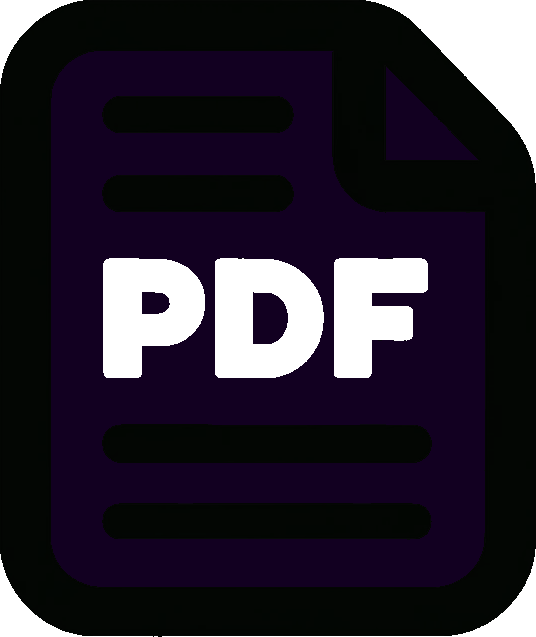
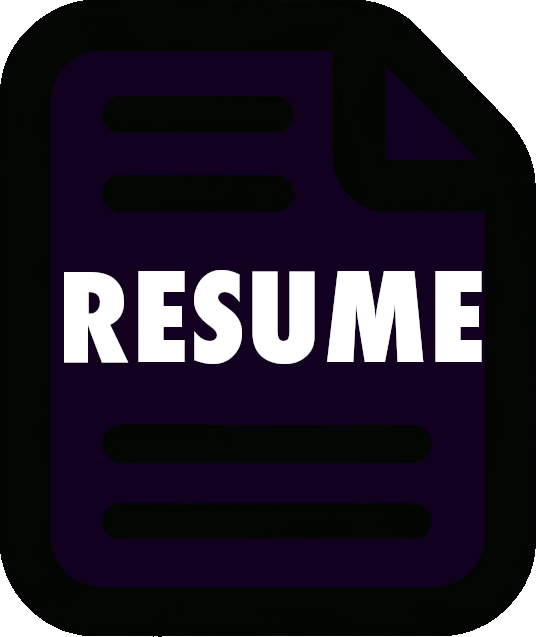
removed labels

Changed region(s): [[0.1194, 0.3878, 0.9254, 0.5965]]

diff --git a/index.html b/index.html
@@ -159,15 +159,12 @@
     <div class="icon-container">
         <a href="https://www.instagram.com/kimmerandcasper" class="download-link">
             <img src="SocialMediaIcon.png" alt="Kimmer's Instagram" class="pdfIcon">
-            <div class="download-text">INSTA</div>
         </a>
         <a href="MyResume.pdf" download class="download-link">
             <img src="PDFicon.png" alt="Download Resume" class="pdfIcon">
-            <div class="download-text">RESUME</div>
         </a>
         <a href="https://www.amazon.com/s?k=kimmer+o%27reilly&i=stripbooks&crid=2ZSWFK6AF4H9Q&sprefix=kimmer+o%27reill%2Cstripbooks%2C203&ref=nb_sb_noss" class="download-link">
             <img src="BookIcon1.png" alt="Download Books" class="pdfIcon" id="bookIcon">
-            <div class="download-text">BOOKS</div>
         </a>
     </div>
     <a href="techProjects.html" class="button1">TECH PROJECTS</a>
